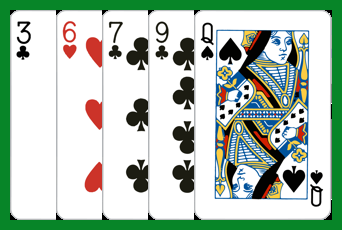
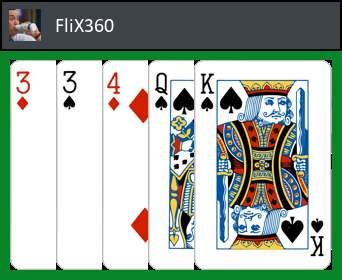
Added better hand displays

diff --git a/main.py b/main.py
@@ -17,7 +17,7 @@ from urllib.request import Request
 import sys
 import io
 from timeit import default_timer as timer
-from PIL import Image, ImageDraw, ImageColor
+from PIL import Image, ImageDraw, ImageColor, ImageFont
 
 
 BOT_PREFIX = "%"
@@ -308,19 +308,31 @@ async def hand(ctx):
     headers = {'User-Agent': 'CardsBot'}
     r = requests.get(str(pfpUrl), stream=True, headers=headers)
     pfp = Image.open(BytesIO(r.content))
-    pfp.show()
+    pfp = pfp.resize((32, 32))
 
     user = ctx.author
     sortHand(user)
     userHand = hands[str(user.id)]
     numCards = len(userHand)
     maxWidth = (int(cardWidth / 3) * (numCards - 1)) + cardWidth + 20
-    HAND = Image.new("RGB", (maxWidth, cardHeight + 20), ImageColor.getrgb("#078528"))
+
+    font = ImageFont.truetype('calibri.ttf', size=20)
+    textWidth = font.getsize(str(user.name))[0]
+
+    if textWidth > maxWidth:
+        maxWidth = textWidth + 69
+
+    HAND = Image.new("RGB", (maxWidth, cardHeight + 70), ImageColor.getrgb("#078528"))
+    DRAW = ImageDraw.Draw(HAND)
+    DRAW.rectangle([0, 0, HAND.width - 1, 50], outline=ImageColor.getrgb("#000000"), fill=ImageColor.getrgb("#3e434a"), width=2)
+
+    DRAW.text((55, 17), str(user.name), fill=ImageColor.getrgb("#ffffff"), font=font)
+    HAND.paste(pfp, (9, 9))
 
     for i in range(0, numCards):
         card = Image.open(userHand[i])
         card = card.resize((cardWidth, cardHeight))
-        HAND.paste(card, (10 + int(cardWidth / 3) * i, 10))
+        HAND.paste(card, (10 + int(cardWidth / 3) * i, 60))
 
     HAND.save('hand.png', format='PNG')
     file = discord.File(open('hand.png', 'rb'))
